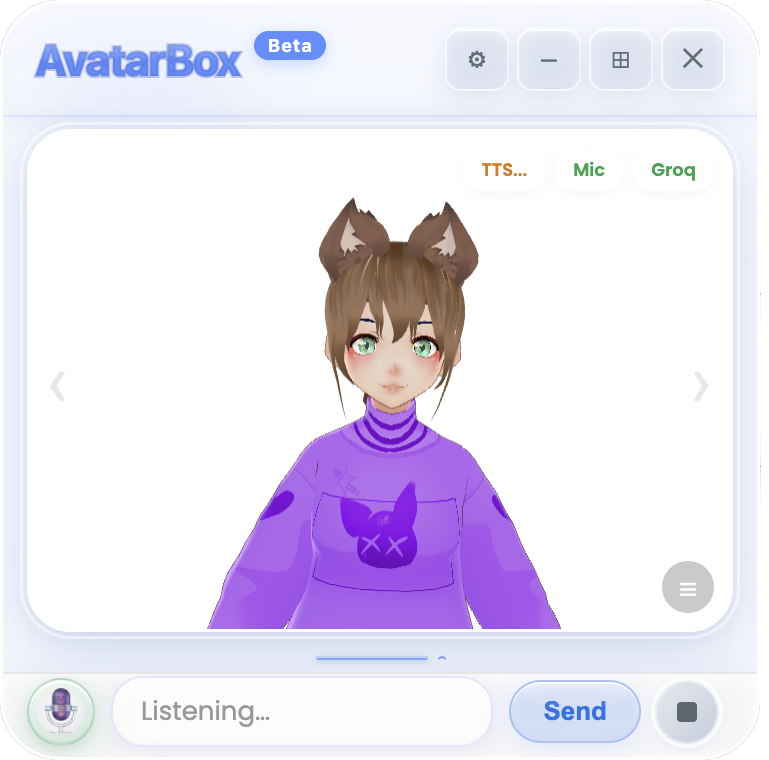
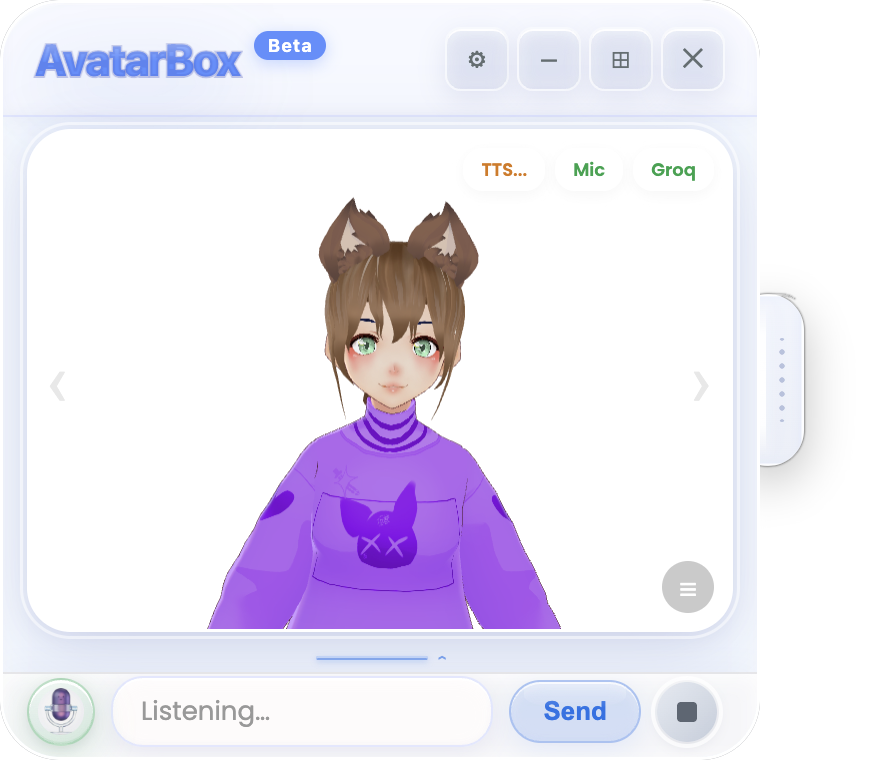
Remove Join Bridge button from sidebar footer
Replaced by Send to Session in the session ... menu which works
without login and keeps sessions within the same app.

diff --git a/apps/desktop/src/renderer/components/sidebar.tsx b/apps/desktop/src/renderer/components/sidebar.tsx
@@ -39,15 +39,12 @@ import {
 	Loader2Icon,
 	MoreVerticalIcon,
 	PlusIcon,
-	LinkIcon,
 	SettingsIcon,
 	TimerIcon,
 	TrashIcon,
 } from "lucide-react"
 import { memo, useCallback, useEffect, useMemo, useRef, useState, useTransition } from "react"
 import { toast } from "sonner"
-import { activeBridgeAtom } from "../atoms/bridge"
-import { parseBridgeUrl } from "../lib/bridge-client"
 import { activeServerConfigAtom } from "../atoms/connection"
 import { automationsEnabledAtom } from "../atoms/feature-flags"
 import {
@@ -457,7 +454,6 @@ export function AppSidebarContent({
 			<SidebarFooter className="space-y-0 p-2">
 				<ServerIndicator />
 				<SidebarMenu>
-					<JoinBridgeButton />
 					<SidebarMenuItem>
 						<SidebarMenuButton
 							tooltip="Settings"
@@ -740,48 +736,3 @@ const SessionItem = memo(function SessionItem({
 	)
 })
 
-function JoinBridgeButton() {
-	const [open, setOpen] = useState(false)
-	const [url, setUrl] = useState("")
-	const setActiveBridge = useSetAtom(activeBridgeAtom)
-
-	const handleJoin = () => {
-		const parsed = parseBridgeUrl(url.trim())
-		if (!parsed) {
-			toast.error("Invalid bridge URL")
-			return
-		}
-		setActiveBridge({ roomToken: parsed.roomToken, meta: parsed.meta, events: [], status: "connecting" })
-		setOpen(false)
-		setUrl("")
-	}
-
-	if (open) {
-		return (
-			<SidebarMenuItem>
-				<div className="flex items-center gap-1 px-2 py-1">
-					<Input
-						autoFocus
-						placeholder="Paste bridge URL…"
-						value={url}
-						onChange={(e) => setUrl(e.target.value)}
-						onKeyDown={(e) => {
-							if (e.key === "Enter") handleJoin()
-							if (e.key === "Escape") { setOpen(false); setUrl("") }
-						}}
-						className="h-7 text-xs"
-					/>
-				</div>
-			</SidebarMenuItem>
-		)
-	}
-
-	return (
-		<SidebarMenuItem>
-			<SidebarMenuButton tooltip="Join Bridge" onClick={() => setOpen(true)} className="text-muted-foreground">
-				<LinkIcon className="size-4" />
-				<span>Join Bridge</span>
-			</SidebarMenuButton>
-		</SidebarMenuItem>
-	)
-}
